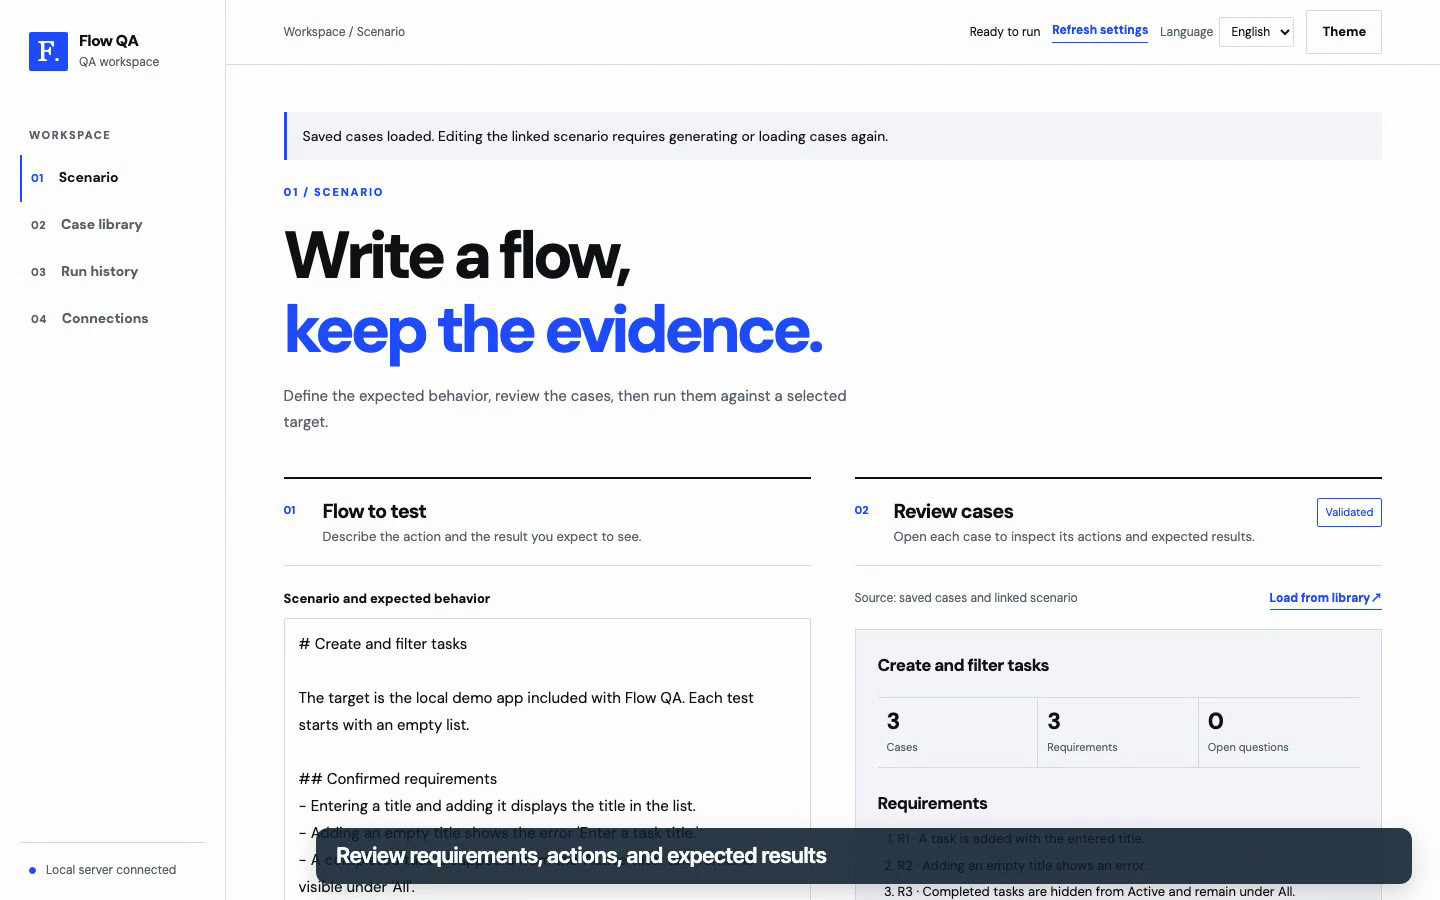
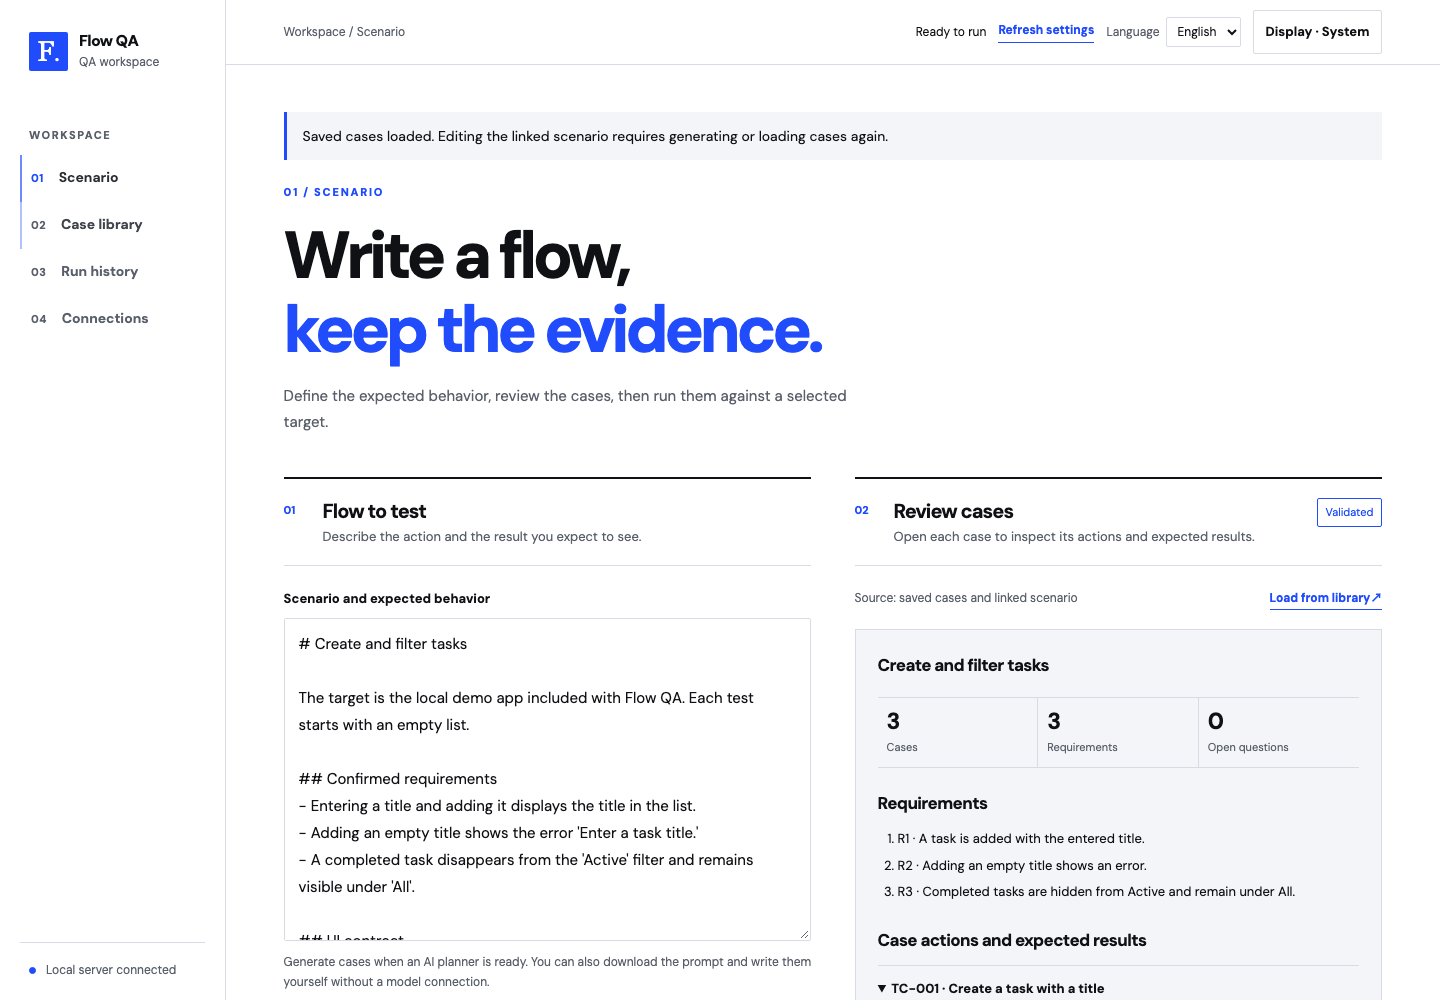
docs: show verified UI screenshots in the alpha preview
Use clean scenario and real run-report captures for the public introduction. Publish the README update as alpha.2 without changing runtime behavior.

diff --git a/docs/releases.md b/docs/releases.md
@@ -1,11 +1,13 @@
 # Alpha release and verification
 
-## 0.1.0-alpha.1
+## 0.1.0-alpha.2
 
-The first public alpha provides a local CLI and UI, structured case validation, browser-run orchestration, and QA reports linked to evidence. Its bundled to-do app demo runs without a model.
+This update replaces the introductory video link with two UI screenshots. Runtime behavior is unchanged from alpha.1. Media files are not included in the npm tarball.
 
-- Package: [`@ihyeon/flow-qa@0.1.0-alpha.1`](https://www.npmjs.com/package/@ihyeon/flow-qa/v/0.1.0-alpha.1), with the `alpha` dist-tag
-- Source and recording: [GitHub alpha release](https://github.com/hyeonse-swing/flow-qa/releases/tag/v0.1.0-alpha.1)
+This public alpha provides a local CLI and UI, structured case validation, browser-run orchestration, and QA reports linked to evidence. Its bundled to-do app demo runs without a model.
+
+- Package: [`@ihyeon/flow-qa@0.1.0-alpha.2`](https://www.npmjs.com/package/@ihyeon/flow-qa/v/0.1.0-alpha.2), with the `alpha` dist-tag
+- Source and package: [GitHub alpha release](https://github.com/hyeonse-swing/flow-qa/releases/tag/v0.1.0-alpha.2)
 - Public checks: [GitHub Actions](https://github.com/hyeonse-swing/flow-qa/actions/workflows/ci.yml)
 
 ### Local evidence
@@ -18,7 +20,6 @@ Checked on macOS with Node.js 24.14.1 on 2026-10-08. The English-default and Kor
 | Real Chromium | Three normal cases passed; an intentional assertion failure and an unreachable app were classified separately |
 | Package contents | Compiled CLI, UI, demo, and bundled design system included; workspace data, run results, and secret files excluded |
 | Tarball in a fresh consumer workspace | Installed with Git execution disabled; CLI, UI, fonts, and the three actual cases passed |
-| Demo recording | 67.04-second H.264 video of the English UI with a Korean language-switch demonstration; both UI and stored JSON reported three passing cases, and full-video decoding passed |
 | Language behavior in Chromium | English first visit, Korean switching, persisted preference, cross-tab sync, preserved edits and review, live run completion, localized Markdown downloads, and 390px viewport passed |
 | Runtime dependency audit | `npm audit --omit=dev` found no known vulnerabilities at the time of the check |
 
@@ -41,7 +42,7 @@ npm run smoke:package
 Check the published registry version separately. The script requires the installed package name and version to match the current `package.json` exactly.
 
 ```sh
-FLOWQA_PACKAGE_SPEC=@ihyeon/flow-qa@0.1.0-alpha.1 npm run smoke:package
+FLOWQA_PACKAGE_SPEC=@ihyeon/flow-qa@0.1.0-alpha.2 npm run smoke:package
 ```
 
 Registry results are written to `output/package/registry-smoke.json`. GitHub CI checks types and tests, Chromium pass/fail/blocked cases, and tarball installation on Linux; its artifacts contain the check results. Confirm publication and CI independently on the package page and the workflow run for the relevant commit.

diff --git a/docs/media/README.md b/docs/media/README.md
@@ -1,13 +1,12 @@
-# Local demo recording
+# Local demo screenshots
 
-`flow-qa-demo.mp4` (about 67 seconds), `flow-qa-demo.png`, and `flow-qa-demo.vtt` were made from the real English-default local UI and English to-do demo app with Playwright. Three cases ran in Chromium without a model. The recorder checks for three `passed` cases in both the UI report and saved JSON before producing the video. Near the end it switches the UI to Korean and back to English; the user's cases stay unchanged. Its bottom captions explain the recording; they are not part of the product UI. The poster is the actual 11-second video frame showing the English scenario title and three-case summary.
+`flow-qa-demo.png` shows the English Scenario screen after loading the bundled to-do suite: three cases, three requirements, and no open questions. `flow-qa-report.png` shows the detailed report from a real Chromium run with all three cases passed and their recorded steps. Both are direct Playwright screenshots of the local UI; they are not composites or mock results.
 
-The video is attached to the [GitHub alpha release](https://github.com/hyeonse-swing/flow-qa/releases/tag/v0.1.0-alpha.1), not included in the Git source or npm package.
-
-Reproduction requires Node.js 24, `npm ci`, installed Playwright Chromium, and a local FFmpeg binary. Run from the repository root:
+Regenerate them from the repository root with Node.js 24, installed dependencies (`npm ci`), and Playwright Chromium:
 
 ```sh
-FLOWQA_FFMPEG=/path/to/ffmpeg node scripts/record-demo.mjs
+flow-qa browser install
+node scripts/capture-demo.mjs
 ```
 
-The script uses a temporary workspace and local ports, and blocks external model or service requests. It does not report a successful recording unless all three cases pass. Review the video and its visible data before sharing it.
+The script creates a fresh temporary workspace and local demo app, blocks external model or service requests, and asserts the UI and saved JSON both report three passes. It also fails on browser page errors. The temporary workspace and servers are removed when the run ends. The example does not verify model quality or an external authenticated app.

diff --git a/README.ko.md b/README.ko.md
@@ -8,14 +8,13 @@
 
 ![로컬 데모 화면](https://raw.githubusercontent.com/hyeonse-swing/flow-qa/main/docs/media/flow-qa-demo.png)
 
-[1분 데모 영상](https://github.com/hyeonse-swing/flow-qa/releases/download/v0.1.0-alpha.1/flow-qa-demo.mp4) · 로컬 할 일 앱에서 예제 불러오기 → 케이스 검토 → 실제 Chromium 실행 → 리포트 확인. 영상은 모델 없이 고정된 세 케이스를 실행합니다.
 
 ## 로컬 데모 시작
 
-Node.js 24 이상이 필요합니다. 패키지는 `@ihyeon/flow-qa@0.1.0-alpha.1`입니다. 브라우저는 첫 실행 전에 설치합니다.
+Node.js 24 이상이 필요합니다. 패키지는 `@ihyeon/flow-qa@0.1.0-alpha.2`입니다. 브라우저는 첫 실행 전에 설치합니다.
 
 ```sh
-npm install -g @ihyeon/flow-qa@0.1.0-alpha.1
+npm install -g @ihyeon/flow-qa@0.1.0-alpha.2
 flow-qa browser install
 flow-qa ui --demo
 ```
@@ -66,6 +65,8 @@ flow-qa plan flows/my-flow.md --workspace my-qa
 - 취소한 실행은 중단으로 기록합니다. UI의 생성 취소는 늦게 도착한 응답을 반영하지 않지만 모델 제공자의 처리나 과금 취소를 보장하지 않습니다. 엔진의 토큰·추정 비용만 표시하며 전체 비용 상한은 없습니다.
 
 리포트와 원본 증거에는 테스트 앱의 데이터가 포함될 수 있습니다. `.flowqa/`는 Git에서 제외되지만 외부 공유 전에는 내용을 확인하세요. 마스킹이 모든 개인정보를 탐지한다고 보장하지 않습니다. 세션 준비, 모바일 기기, 예약 CI 실행, 팀 권한과 공유 서버는 이 알파의 지원 범위 밖입니다.
+
+![실제 세 케이스 실행 결과](https://raw.githubusercontent.com/hyeonse-swing/flow-qa/main/docs/media/flow-qa-report.png)
 
 ## 구현과 출처
 

diff --git a/README.md b/README.md
@@ -8,14 +8,13 @@ Flow QA turns a user flow into reviewable test cases, runs them in a real browse
 
 ![Flow QA local demo](https://raw.githubusercontent.com/hyeonse-swing/flow-qa/main/docs/media/flow-qa-demo.png)
 
-[Watch the one-minute demo](https://github.com/hyeonse-swing/flow-qa/releases/download/v0.1.0-alpha.1/flow-qa-demo.mp4) · Load a local to-do app example, review its cases, run them in Chromium, and inspect the report. The 67-second recording uses the English UI, runs three fixed cases without a model, and demonstrates switching to Korean.
 
 ## Try the local demo
 
 Requires Node.js 24 or later. Install Chromium before the first run:
 
 ```sh
-npm install -g @ihyeon/flow-qa@0.1.0-alpha.1
+npm install -g @ihyeon/flow-qa@0.1.0-alpha.2
 flow-qa browser install
 flow-qa ui --demo
 ```
@@ -66,6 +65,8 @@ For authenticated models, add `--key-env FLOW_QA_API_KEY` to the model command a
 - Cancellation records an interrupted run. Canceling generation prevents a late response from changing the draft, but does not guarantee cancellation of a provider's processing or charges. The UI shows token use and estimated cost only when the engine supplies them; there is no overall cost cap.
 
 Reports and raw evidence can contain data from the tested app. `.flowqa/` is Git-ignored, but inspect files before sharing them. Redaction cannot be assumed to catch every personal detail. Session setup, mobile devices, scheduled CI runs, team permissions, and a shared server are outside this alpha's scope.
+
+![QA report from three real passing cases](https://raw.githubusercontent.com/hyeonse-swing/flow-qa/main/docs/media/flow-qa-report.png)
 
 ## Implementation and credits
 

diff --git a/docs/ui.md b/docs/ui.md
@@ -7,7 +7,7 @@ Use the target app's URL and a user flow to review cases, run them, and inspect 
 Node.js 24 or later is required. Install the alpha and start the local demo:
 
 ```sh
-npm install -g @ihyeon/flow-qa@0.1.0-alpha.1
+npm install -g @ihyeon/flow-qa@0.1.0-alpha.2
 flow-qa browser install
 flow-qa ui --demo
 ```
